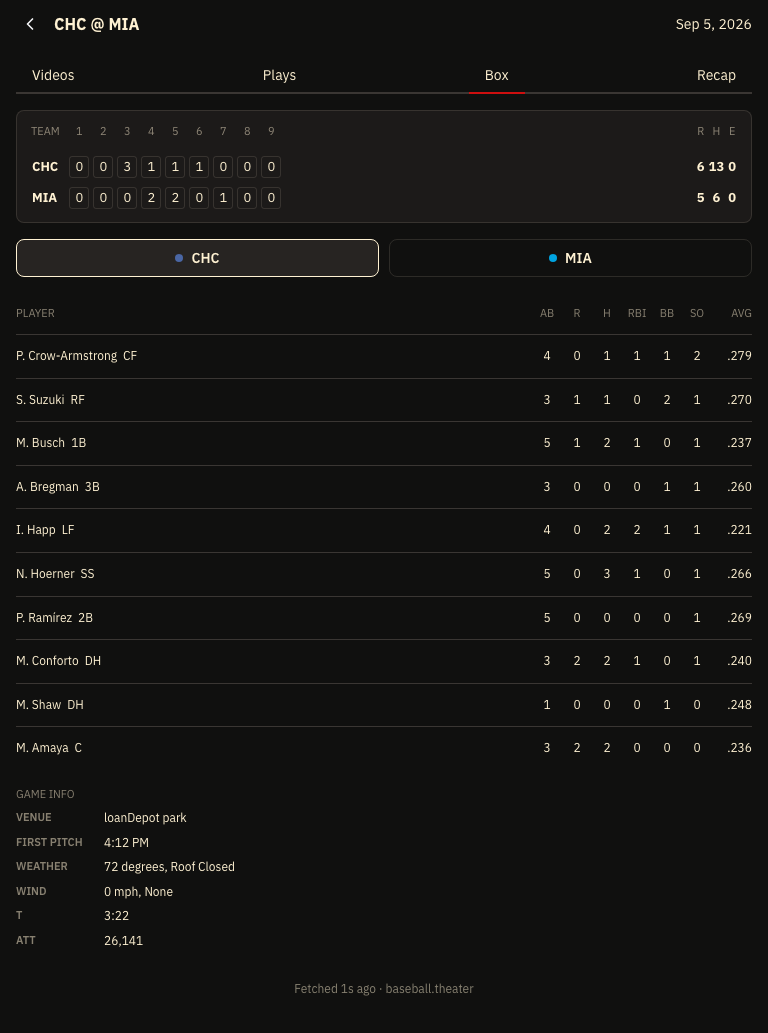
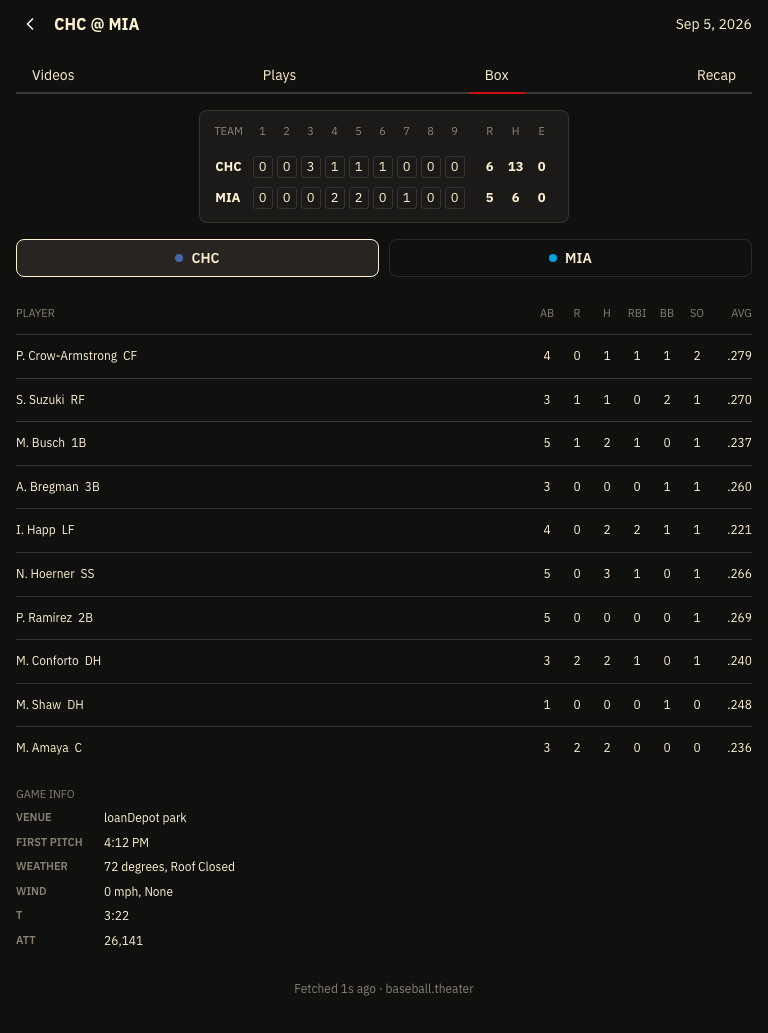
S2 checkpoint: the linescore takes only the width it needs, centred in the room (owner, 2026-10-29: "for now, let's make the linescore only take up the amount of width it requires and center it"). The full-width spacer column is now an 8px gap before R / H / E; the box scrolls sideways if extra inni
Claude-Session: https://claude.ai/code/session_01FZHj4DHjrKLUxiv2c6en8u

Changed region(s): [[0.0312, 0.1239, 0.5938, 0.2168], [0.9062, 0.1549, 0.9688, 0.2168], [0.6562, 0.1549, 0.6875, 0.1859]]

diff --git a/web/src/components/game/Linescore.tsx b/web/src/components/game/Linescore.tsx
@@ -31,6 +31,10 @@ const TOTAL: CSSProperties = {
  * boxes for the innings"). One component for both rooms: Plays (S41) reuses it.
  * The cells and run totals come from `linescoreCells` in `packages/domain`
  * (ADR-025); this only draws them. Unplayed innings are empty boxes.
+ * For now the box is only as wide as its cells and centred in its room (owner,
+ * 2026-10-29: "for now, let's make the linescore only take up the amount of width it
+ * requires and center it"); the aim is innings spread evenly across the full width.
+ * It scrolls sideways rather than overflow when extra innings outgrow the room.
  */
 export function Linescore({
 	linescore, away, home,
@@ -58,11 +62,15 @@ export function Linescore({
 			bg="var(--bt-raised)"
 			radius="md"
 			p={12}
+			mx="auto"
+			maw="100%"
+			w="fit-content"
 			style={{
 				border: "1px solid var(--bt-hairline)",
+				overflowX: "auto",
 			}}
 		>
-			<Box component="table" aria-label="Linescore" w="100%" style={{
+			<Box component="table" aria-label="Linescore" style={{
 				borderCollapse: "separate",
 				borderSpacing: "2px 0",
 			}}
@@ -80,7 +88,7 @@ export function Linescore({
 						</th>
 						{cells.innings.map((num) => <th key={num} scope="col" style={HEAD}>{num}</th>)}
 						<th aria-hidden style={{
-							width: "100%",
+							width: 8,
 						}}
 						/>
 						<th scope="col" style={HEAD}>R</th>
